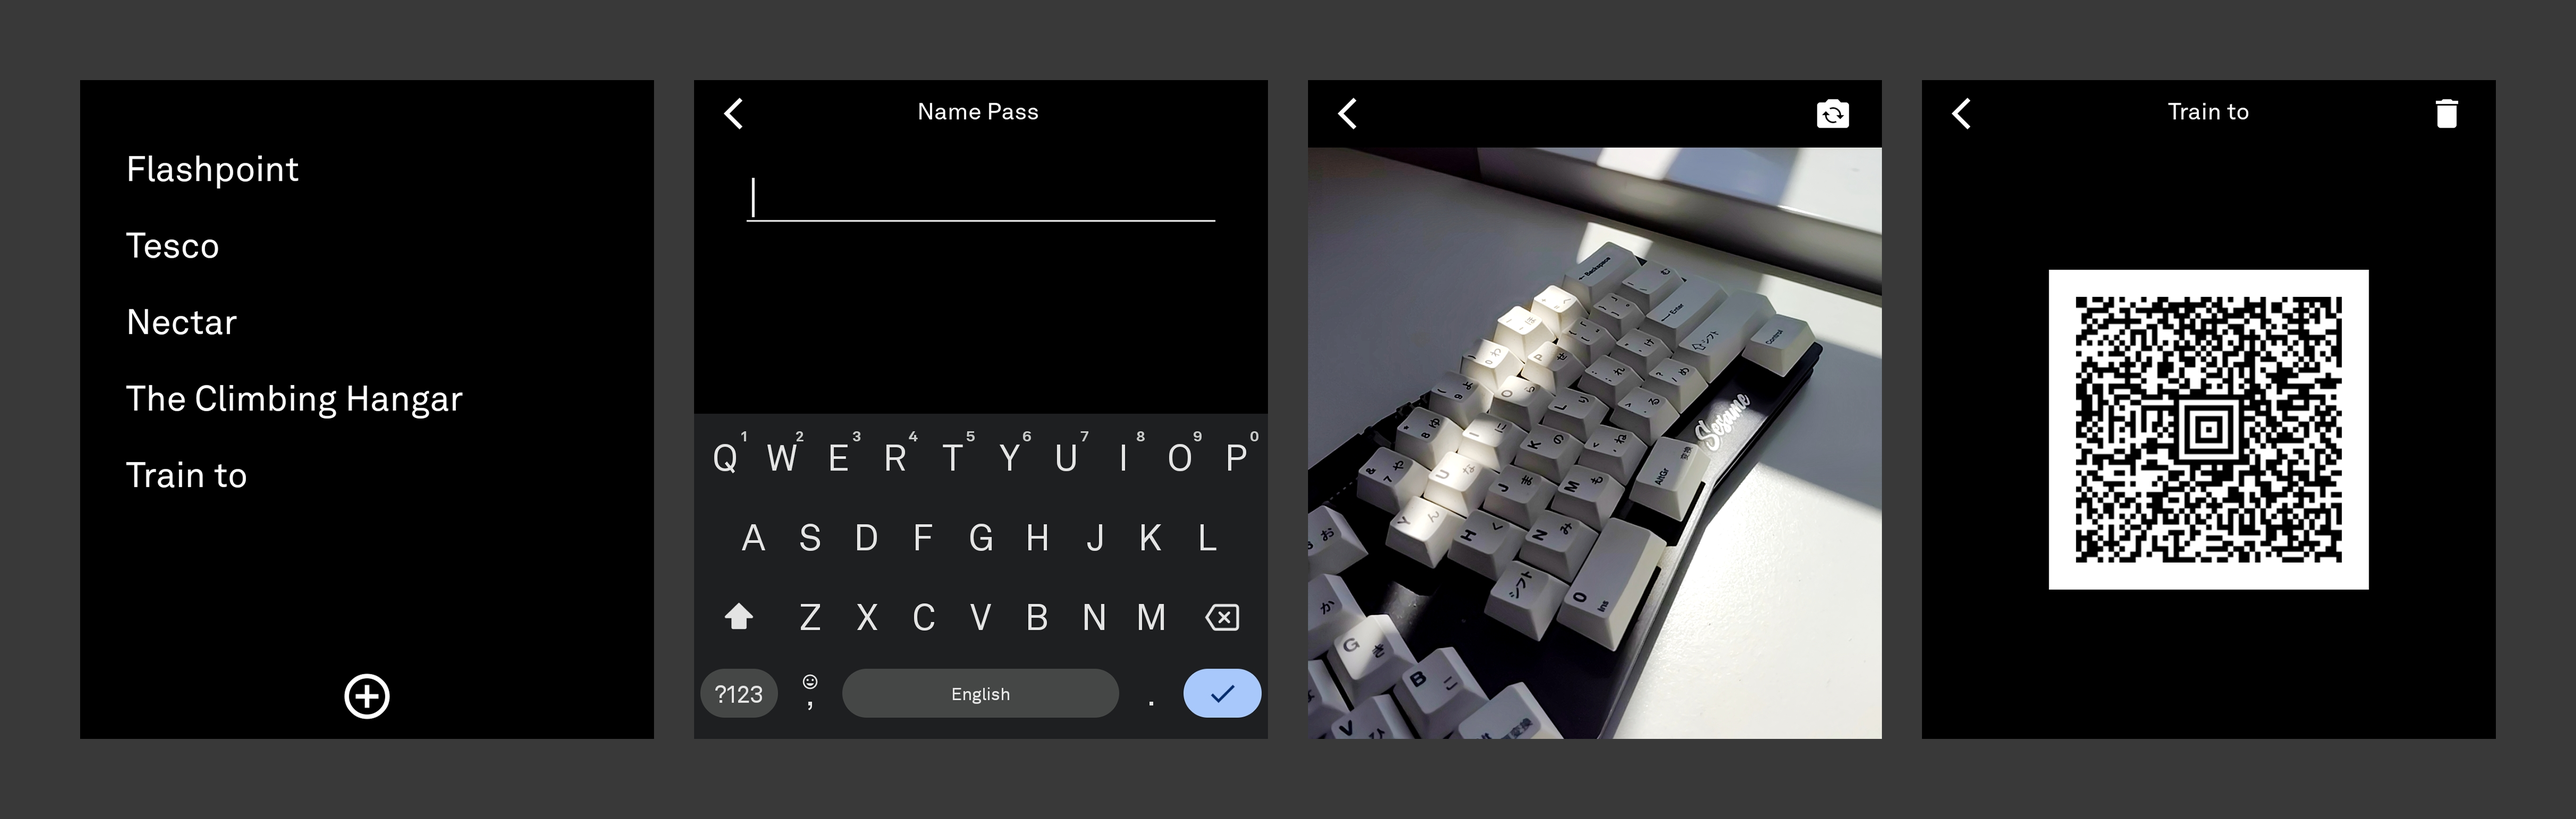
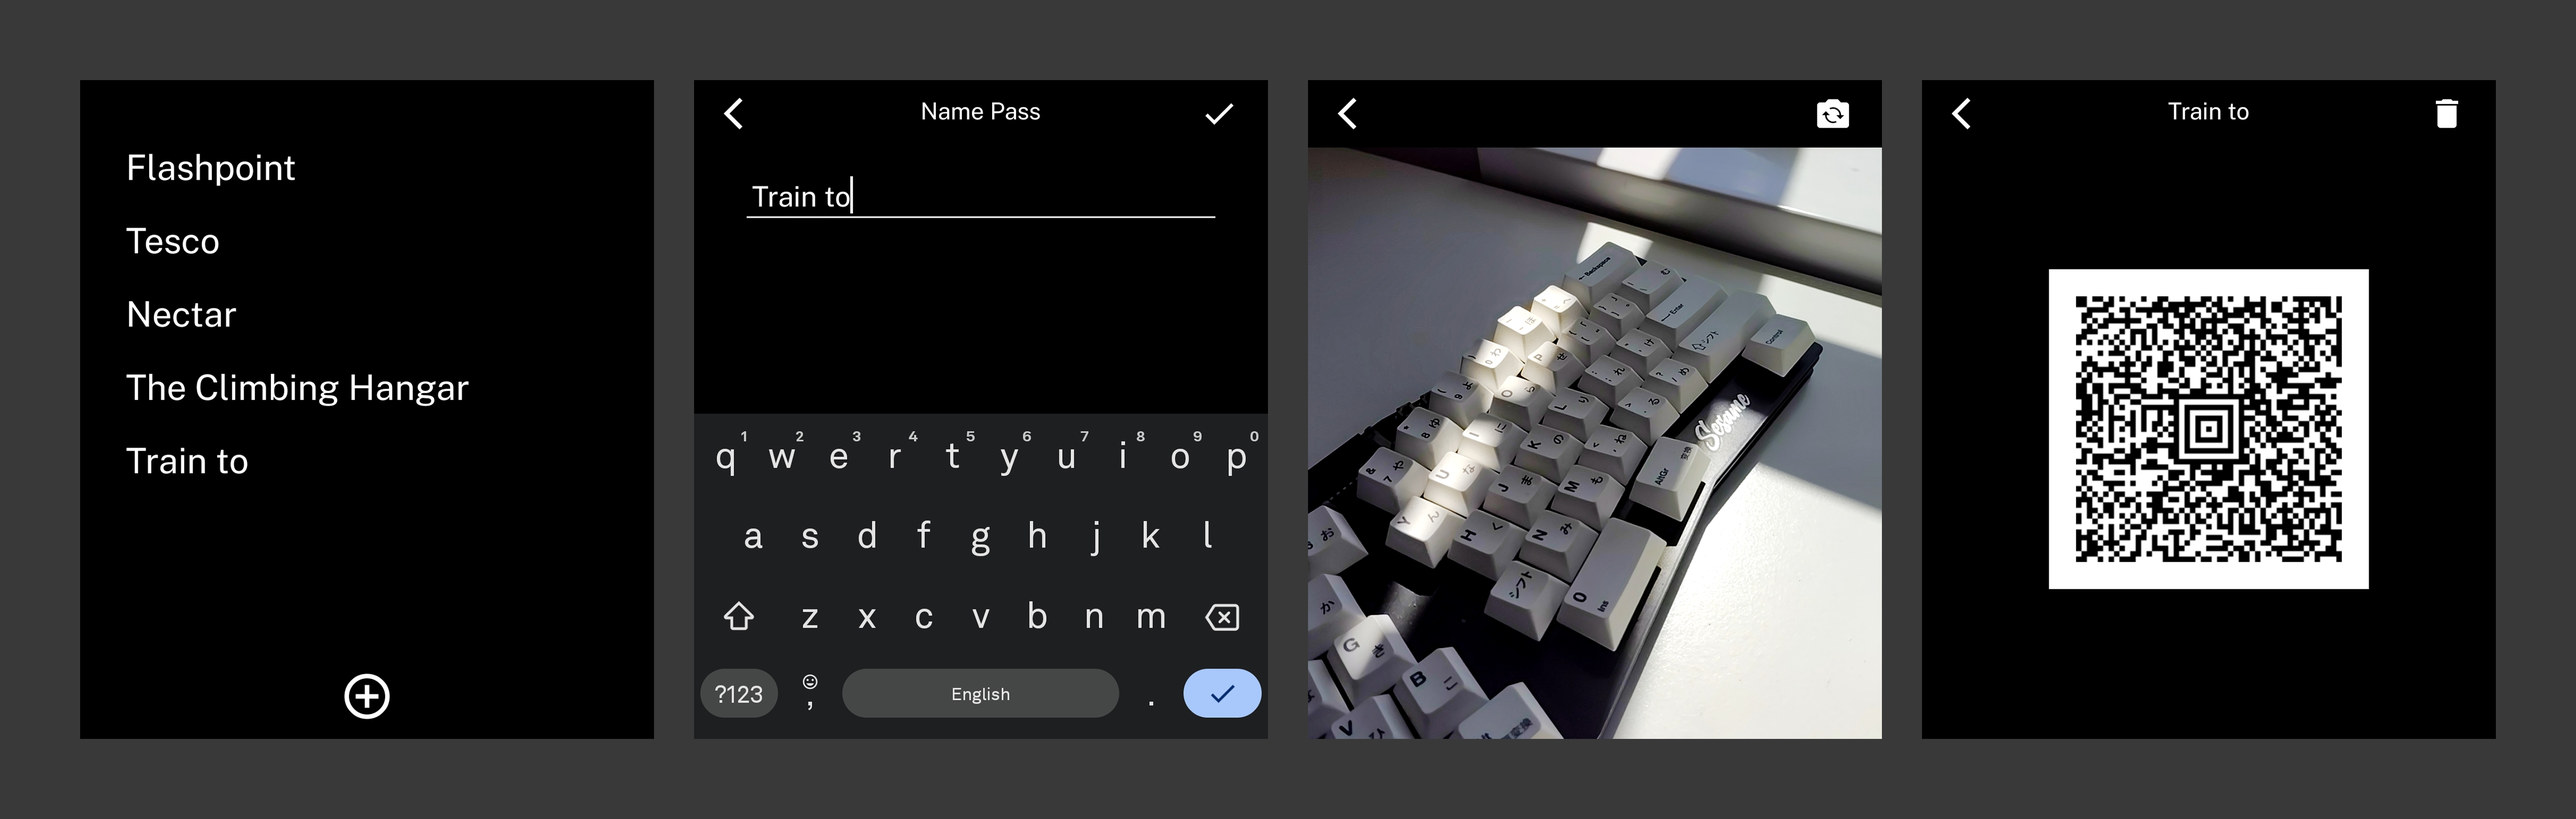
feat: update readme

diff --git a/README.md b/README.md
@@ -5,16 +5,19 @@
 An app for the Light Phone III to store codes.
 
 Supported codes:
-- [x] QR Code
-- [x] Aztec Code
-- [x] EAN-13
-- [x] EAN-8
-- [x] PDF417
-- [x] UPC-E
-- [x] Data Matrix
-- [x] Code 39
-- [x] Code 93
-- [x] ITF-14
-- [x] Codabar
-- [x] Code 128
-- [x] UPC-A
+
+-   [x] QR Code
+-   [x] Aztec Code
+-   [x] EAN-13
+-   [x] EAN-8
+-   [x] PDF417
+-   [x] UPC-E
+-   [x] Data Matrix
+-   [x] Code 39
+-   [x] Code 93
+-   [x] ITF-14
+-   [x] Codabar
+-   [x] Code 128
+-   [x] UPC-A
+
+Font: [Public Sans](https://public-sans.digital.gov/)
